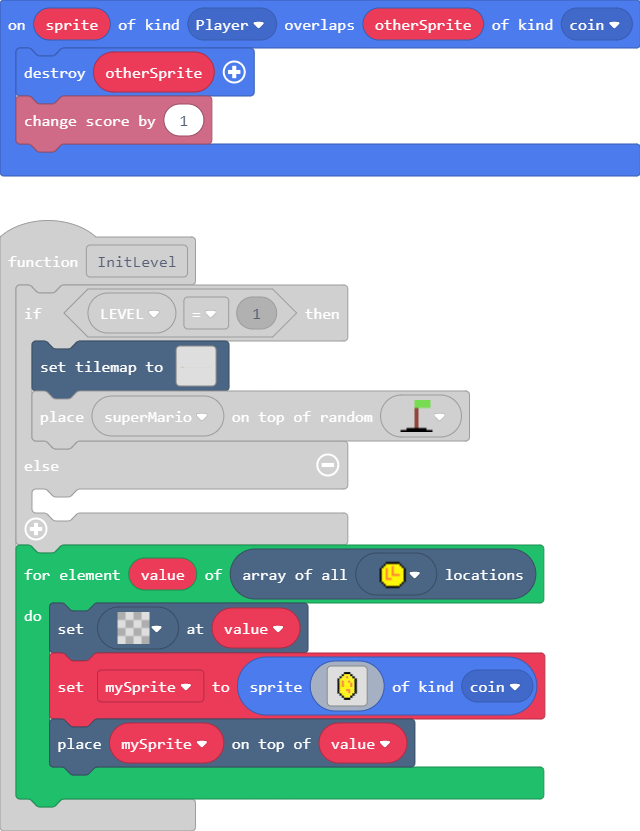
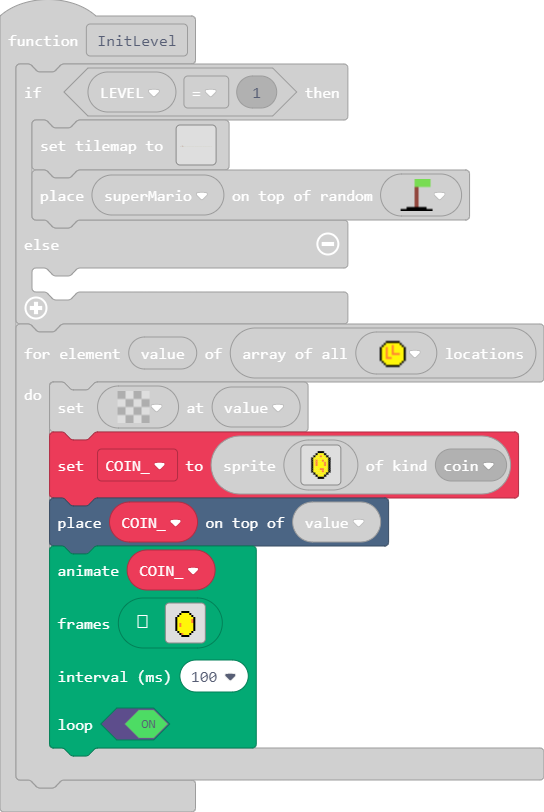
animated coins

diff --git a/main.ts b/main.ts
@@ -126,7 +126,7 @@ function InitLevel () {
     }
     for (let value of tiles.getTilesByType(myTiles.tile3)) {
         tiles.setTileAt(value, myTiles.tile0)
-        mySprite = sprites.create(img`
+        COIN_ = sprites.create(img`
 . . . . . . . . . . . . . . . 
 . . . . . . f f f . . . . . . 
 . . . . . f 5 5 5 f . . . . . 
@@ -143,10 +143,152 @@ function InitLevel () {
 . . . . . . f f f . . . . . . 
 . . . . . . . . . . . . . . . 
 `, SpriteKind.coin)
-        tiles.placeOnTile(mySprite, value)
+        tiles.placeOnTile(COIN_, value)
+        animation.runImageAnimation(
+        COIN_,
+        [img`
+. . . . . . . . . . . . . . . . 
+. . . . . . . . . . . . . . . . 
+. . . . . . f f f f . . . . . . 
+. . . . . f 5 5 5 5 f . . . . . 
+. . . . f 5 5 5 5 5 5 f . . . . 
+. . . f 5 5 5 5 5 5 5 5 f . . . 
+. . . f 5 5 5 5 5 5 5 4 f . . . 
+. . . f 5 5 5 5 5 5 5 4 f . . . 
+. . . f 5 4 5 5 5 5 5 5 f . . . 
+. . . f 5 4 5 5 5 5 5 5 f . . . 
+. . . f 5 5 5 5 5 5 5 5 f . . . 
+. . . f 5 5 5 5 5 5 5 5 f . . . 
+. . . . f 5 5 5 5 5 5 f . . . . 
+. . . . . f 4 5 5 5 f . . . . . 
+. . . . . . f f f f . . . . . . 
+. . . . . . . . . . . . . . . . 
+`,img`
+. . . . . . . . . . . . . . . . 
+. . . . . . . . . . . . . . . . 
+. . . . . . . f f . . . . . . . 
+. . . . . . f 5 5 f . . . . . . 
+. . . . . f 5 5 5 5 f . . . . . 
+. . . . f 5 5 5 5 5 5 f . . . . 
+. . . . f 5 5 5 5 5 4 f . . . . 
+. . . . f 5 5 5 5 5 4 f . . . . 
+. . . . f 5 4 5 5 5 5 f . . . . 
+. . . . f 5 4 5 5 5 5 f . . . . 
+. . . . f 5 5 5 5 5 5 f . . . . 
+. . . . f 5 5 5 5 5 5 f . . . . 
+. . . . . f 5 5 5 5 f . . . . . 
+. . . . . . f 4 5 f . . . . . . 
+. . . . . . . f f . . . . . . . 
+. . . . . . . . . . . . . . . . 
+`,img`
+. . . . . . . . . . . . . . . . 
+. . . . . . . . . . . . . . . . 
+. . . . . . . . f . . . . . . . 
+. . . . . . . . f . . . . . . . 
+. . . . . . . f 5 f . . . . . . 
+. . . . . . f 5 5 5 f . . . . . 
+. . . . . . f 5 5 4 f . . . . . 
+. . . . . . f 5 5 4 f . . . . . 
+. . . . . . f 5 5 5 f . . . . . 
+. . . . . . f 5 5 5 f . . . . . 
+. . . . . . f 5 5 5 f . . . . . 
+. . . . . . f 5 5 5 f . . . . . 
+. . . . . . . f 5 f . . . . . . 
+. . . . . . . . f . . . . . . . 
+. . . . . . . . f . . . . . . . 
+. . . . . . . . . . . . . . . . 
+`,img`
+. . . . . . . . . . . . . . . . 
+. . . . . . . . . . . . . . . . 
+. . . . . . . . f . . . . . . . 
+. . . . . . . . f . . . . . . . 
+. . . . . . . . f . . . . . . . 
+. . . . . . . f 5 f . . . . . . 
+. . . . . . . f 4 f . . . . . . 
+. . . . . . . f 4 f . . . . . . 
+. . . . . . . f 5 f . . . . . . 
+. . . . . . . f 5 f . . . . . . 
+. . . . . . . f 5 f . . . . . . 
+. . . . . . . f 5 f . . . . . . 
+. . . . . . . . f . . . . . . . 
+. . . . . . . . f . . . . . . . 
+. . . . . . . . f . . . . . . . 
+. . . . . . . . . . . . . . . . 
+`,img`
+. . . . . . . . . . . . . . . . 
+. . . . . . . . . . . . . . . . 
+. . . . . . . . f . . . . . . . 
+. . . . . . . . f . . . . . . . 
+. . . . . . . . f . . . . . . . 
+. . . . . . . . f . . . . . . . 
+. . . . . . . . f . . . . . . . 
+. . . . . . . . f . . . . . . . 
+. . . . . . . . f . . . . . . . 
+. . . . . . . . f . . . . . . . 
+. . . . . . . . f . . . . . . . 
+. . . . . . . . f . . . . . . . 
+. . . . . . . . f . . . . . . . 
+. . . . . . . . f . . . . . . . 
+. . . . . . . . f . . . . . . . 
+. . . . . . . . . . . . . . . . 
+`,img`
+. . . . . . . . . . . . . . . . 
+. . . . . . . . . . . . . . . . 
+. . . . . . . . f . . . . . . . 
+. . . . . . . . f . . . . . . . 
+. . . . . . . . f . . . . . . . 
+. . . . . . . f 5 f . . . . . . 
+. . . . . . . f 4 f . . . . . . 
+. . . . . . . f 4 f . . . . . . 
+. . . . . . . f 5 f . . . . . . 
+. . . . . . . f 5 f . . . . . . 
+. . . . . . . f 5 f . . . . . . 
+. . . . . . . f 5 f . . . . . . 
+. . . . . . . . f . . . . . . . 
+. . . . . . . . f . . . . . . . 
+. . . . . . . . f . . . . . . . 
+. . . . . . . . . . . . . . . . 
+`,img`
+. . . . . . . . . . . . . . . . 
+. . . . . . . . . . . . . . . . 
+. . . . . . . . f . . . . . . . 
+. . . . . . . . f . . . . . . . 
+. . . . . . . f 5 f . . . . . . 
+. . . . . . f 5 5 5 f . . . . . 
+. . . . . . f 5 5 4 f . . . . . 
+. . . . . . f 5 5 4 f . . . . . 
+. . . . . . f 5 5 5 f . . . . . 
+. . . . . . f 5 5 5 f . . . . . 
+. . . . . . f 5 5 5 f . . . . . 
+. . . . . . f 5 5 5 f . . . . . 
+. . . . . . . f 5 f . . . . . . 
+. . . . . . . . f . . . . . . . 
+. . . . . . . . f . . . . . . . 
+. . . . . . . . . . . . . . . . 
+`,img`
+. . . . . . . . . . . . . . . . 
+. . . . . . . . . . . . . . . . 
+. . . . . . . f f . . . . . . . 
+. . . . . . f 5 5 f . . . . . . 
+. . . . . f 5 5 5 5 f . . . . . 
+. . . . f 5 5 5 5 5 5 f . . . . 
+. . . . f 5 5 5 5 5 4 f . . . . 
+. . . . f 5 5 5 5 5 4 f . . . . 
+. . . . f 5 4 5 5 5 5 f . . . . 
+. . . . f 5 4 5 5 5 5 f . . . . 
+. . . . f 5 5 5 5 5 5 f . . . . 
+. . . . f 5 5 5 5 5 5 f . . . . 
+. . . . . f 5 5 5 5 f . . . . . 
+. . . . . . f 4 5 f . . . . . . 
+. . . . . . . f f . . . . . . . 
+. . . . . . . . . . . . . . . . 
+`],
+        100,
+        true
+        )
     }
 }
-let mySprite: Sprite = null
+let COIN_: Sprite = null
 let LEVEL = 0
 let superMario: Sprite = null
 superMario = sprites.create(img`
